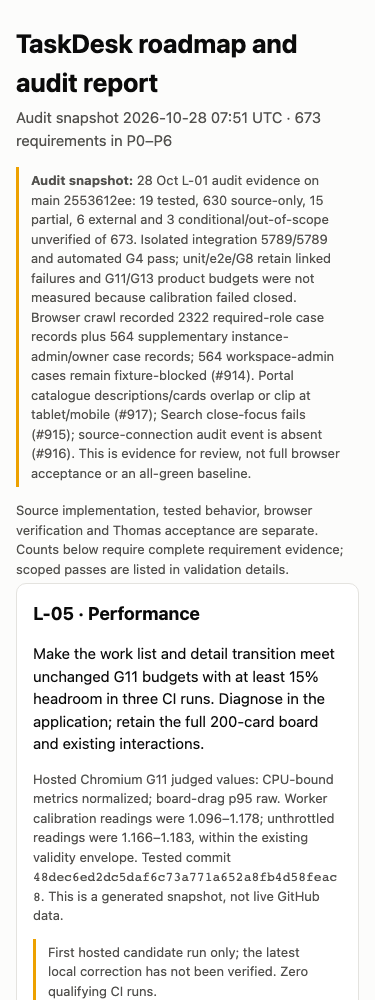
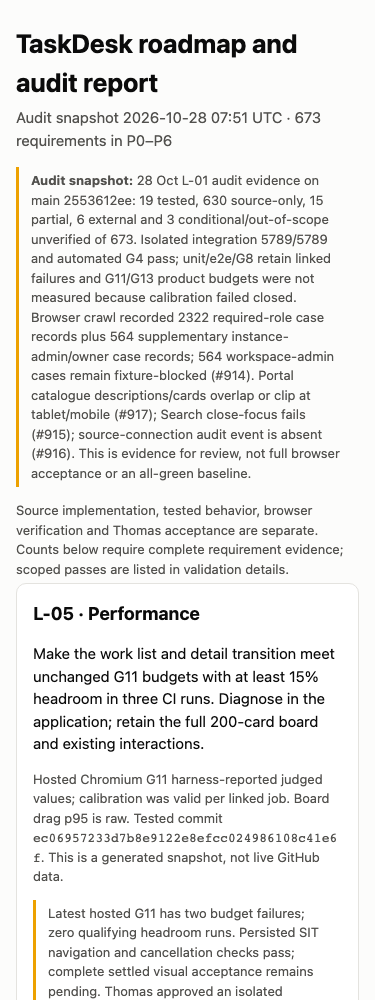
docs(report): refresh hosted performance and audit progress

Changed region(s): [[0.088, 0.775, 0.9093, 1.0]]

diff --git a/docs/report/report.html b/docs/report/report.html
@@ -30,10 +30,10 @@ details{margin-top:8px}summary{cursor:pointer;font-weight:600}
 <p class="sub">Audit snapshot 2026-10-28 07:51 UTC · 673 requirements in P0–P6</p>
 <p class="note"><strong>Audit snapshot:</strong> 28 Oct L-01 audit evidence on main 2553612ee: 19 tested, 630 source-only, 15 partial, 6 external and 3 conditional/out-of-scope unverified of 673. Isolated integration 5789/5789 and automated G4 pass; unit/e2e/G8 retain linked failures and G11/G13 product budgets were not measured because calibration failed closed. Browser crawl recorded 2322 required-role case records plus 564 supplementary instance-admin/owner case records; 564 workspace-admin cases remain fixture-blocked (#914). Portal catalogue descriptions/cards overlap or clip at tablet/mobile (#917); Search close-focus fails (#915); source-connection audit event is absent (#916). This is evidence for review, not full browser acceptance or an all-green baseline.</p>
 <p class="meta">Source implementation, tested behavior, browser verification and Thomas acceptance are separate. Counts below require complete requirement evidence; scoped passes are listed in validation details.</p>
-<section class="card"><h2>L-05 · Performance</h2><p>Make the work list and detail transition meet unchanged G11 budgets with at least 15% headroom in three CI runs. Diagnose in the application; retain the full 200-card board and existing interactions.</p><p class="meta">Hosted Chromium G11 judged values: CPU-bound metrics normalized; board-drag p95 raw. Worker calibration readings were 1.096–1.178; unthrottled readings were 1.166–1.183, within the existing validity envelope. Tested commit <code>48dec6ed2dc5daf6c73a771a652a8fb4d58feac8</code>. This is a generated snapshot, not live GitHub data.</p><p class="note">First hosted candidate run only; the latest local correction has not been verified. Zero qualifying CI runs.</p><p><a href="https://github.com/ThomasHeinThura/ticketing/pull/919">Draft PR 919</a> · <a href="https://github.com/ThomasHeinThura/ticketing/actions/runs/40714505114/job/122908390393">Hosted CI run and job</a></p>
-<div class="table-wrap" tabindex="0" role="region" aria-label="First hosted candidate metrics table"><table><caption>First hosted candidate metrics</caption><thead><tr><th scope="col">Metric</th><th scope="col">Measured</th><th scope="col">Budget</th><th scope="col">15% headroom</th><th scope="col">Result</th></tr></thead><tbody><tr><th scope="row">Work-list LCP</th><td>2769.5 ms</td><td>&lt; 2500 ms</td><td>≤ 2125 ms</td><td class="metric-fail">Fail</td></tr><tr><th scope="row">List to detail</th><td>518 ms</td><td>&lt; 300 ms</td><td>≤ 255 ms</td><td class="metric-fail">Fail</td></tr><tr><th scope="row">Board drag p95</th><td>16.8 ms</td><td>&lt; 20 ms</td><td>≤ 17 ms</td><td class="">Pass</td></tr><tr><th scope="row">Board render</th><td>412.7 ms</td><td>&lt; 500 ms</td><td>≤ 425 ms</td><td class="">Pass</td></tr><tr><th scope="row">Assignment click</th><td>165.2 ms</td><td>&lt; 200 ms</td><td>≤ 170 ms</td><td class="">Pass</td></tr></tbody></table></div><p class="meta">Hosted E2E: 164 passed, 1 failed (create-control regression). Correction is pending verification. Candidate has no persisted SIT acceptance.</p><p class="meta">Latest local correction: six targeted E2E tests pass, covering create shell while panel or form is delayed, cancellation on navigation or unmount, retry and parent preload. Hosted verification remains pending.</p></section>
+<section class="card"><h2>L-05 · Performance</h2><p>Make the work list and detail transition meet unchanged G11 budgets with at least 15% headroom in three CI runs. Diagnose in the application; retain the full 200-card board and existing interactions.</p><p class="meta">Hosted Chromium G11 harness-reported judged values; calibration was valid per linked job. Board drag p95 is raw. Tested commit <code>ec06957233d7b8e9122e8efcc024986108c41e6f</code>. This is a generated snapshot, not live GitHub data.</p><p class="note">Latest hosted G11 has two budget failures; zero qualifying headroom runs. Persisted SIT navigation and cancellation checks pass; complete settled visual acceptance remains pending. Thomas approved an isolated workspace-admin fixture; it is created and role-verified, with browser coverage in progress.</p><p><a href="https://github.com/ThomasHeinThura/ticketing/pull/919">Draft PR 919</a> · <a href="https://github.com/ThomasHeinThura/ticketing/actions/runs/40731412562/job/122968440838">Hosted CI run and job</a></p>
+<div class="table-wrap" tabindex="0" role="region" aria-label="Latest hosted candidate metrics table"><table><caption>Latest hosted candidate metrics</caption><thead><tr><th scope="col">Metric</th><th scope="col">Measured</th><th scope="col">Budget</th><th scope="col">15% headroom</th><th scope="col">Budget result</th><th scope="col">Headroom result</th></tr></thead><tbody><tr><th scope="row">Work-list LCP</th><td>2853.6 ms</td><td>&lt; 2500 ms</td><td>≤ 2125 ms</td><td class="metric-fail">Fail</td><td class="metric-fail">Fail</td></tr><tr><th scope="row">List to detail</th><td>1103.5 ms</td><td>&lt; 300 ms</td><td>≤ 255 ms</td><td class="metric-fail">Fail</td><td class="metric-fail">Fail</td></tr><tr><th scope="row">Board drag p95</th><td>16.8 ms</td><td>&lt; 20 ms</td><td>≤ 17 ms</td><td class="">Pass</td><td class="">Pass</td></tr><tr><th scope="row">Board render</th><td>467.1 ms</td><td>&lt; 500 ms</td><td>≤ 425 ms</td><td class="">Pass</td><td class="metric-fail">Fail</td></tr><tr><th scope="row">Assignment click</th><td>184.6 ms</td><td>&lt; 200 ms</td><td>≤ 170 ms</td><td class="">Pass</td><td class="metric-fail">Fail</td></tr><tr><th scope="row">State click</th><td>190.0 ms</td><td>&lt; 200 ms</td><td>≤ 170 ms</td><td class="">Pass</td><td class="metric-fail">Fail</td></tr></tbody></table></div><p class="meta">Hosted CI: 25 other checks green including full integration, G8, G4 and E2E; G11 alone failed (20 passed, 2 failed). Detail value 1103.5 ms is the second judged set; the first set measured 1063.9 ms.</p><p class="meta">Verified ec0695723 checks (before the new notification-batching experiment): 3326 web tests, 7 mocked browser journeys, 9 typecheck tasks, clean tracked-source lint (0 errors, 265 existing warnings, 15 infos), 401 contrast pairs and bundle limits pass. Persisted local SIT ec0695723: 96 agent cases (owner/lead/member/viewer × list/table/board/detail × three widths × two themes) and 6 customer portal cases pass after retaining and diagnosing initial harness failures. Pointer and keyboard drag cancellation preserve state/rank/version with zero record writes. Thomas approved an isolated QA workspace/project/identity for #914; creation and workspace-admin-only role verification passed, and browser coverage is in progress. These are scoped functional checks; initial captures include progressive placeholders, so whole-matrix settled visual acceptance is pending.</p><details><summary>Previous hosted candidate</summary><p class="meta">Tested commit <code>48dec6ed2dc5daf6c73a771a652a8fb4d58feac8</code> · <a href="https://github.com/ThomasHeinThura/ticketing/actions/runs/40714505114/job/122908390393">Previous hosted job</a>. Hosted Chromium G11 judged values: CPU-bound metrics normalized; board-drag p95 raw. Worker calibration readings were 1.096–1.178; unthrottled readings were 1.166–1.183, within the existing validity envelope.</p><ul><li>Work-list LCP: 2769.5 ms; budget &lt; 2500 ms; headroom target ≤ 2125 ms; budget Fail.</li><li>List to detail: 518 ms; budget &lt; 300 ms; headroom target ≤ 255 ms; budget Fail.</li><li>Board drag p95: 16.8 ms; budget &lt; 20 ms; headroom target ≤ 17 ms; budget Pass.</li><li>Board render: 412.7 ms; budget &lt; 500 ms; headroom target ≤ 425 ms; budget Pass.</li><li>Assignment click: 165.2 ms; budget &lt; 200 ms; headroom target ≤ 170 ms; budget Pass.</li></ul><p class="meta">Hosted E2E 164 passed, 1 failed (create-control regression).</p></details></section>
 <section class="card"><h2>Roadmap</h2>
-<p class="meta">Updated 2026-10-28 16:31 UTC · retained backlog order</p>
+<p class="meta">Updated 2026-10-28 17:54 UTC · retained backlog order</p>
 <div class="table-wrap" tabindex="0" role="region" aria-label="Ordered backlog table"><table><caption>Ordered backlog</caption><thead><tr><th scope="col">Item</th><th scope="col">Status</th><th scope="col">Done when</th></tr></thead><tbody><tr><th scope="row"><a href="https://github.com/ThomasHeinThura/ticketing/pull/918">L-01</a> · Baseline full audit</th><td>Evidence delivered; PR unmerged</td><td>Review, required CI and Thomas approval; blocked evidence remains explicit.</td></tr><tr><th scope="row"><a href="https://github.com/ThomasHeinThura/ticketing/pull/919">L-05</a> · Work-list performance headroom</th><td>In progress; draft PR</td><td>G11 green with at least 15% headroom for three CI runs.</td></tr><tr><th scope="row">L-02 · Test-suite reliability</th><td>Queued</td><td>Three consecutive green CI runs without retries; typical PR run ≤ 15 minutes.</td></tr><tr><th scope="row">L-03a · Release regression suite</th><td>Queued</td><td>Persisted journeys cover every area and role on local SIT.</td></tr><tr><th scope="row">L-03 · Settings split by scope</th><td>Queued</td><td>Account, project, workspace and God Mode entry points; redirects and role/browser checks.</td></tr><tr><th scope="row">L-04 · Pages editor</th><td>Queued</td><td>Keyboard-first block editor with persistence, conflict handling and browser verification.</td></tr><tr><th scope="row">L-06 · Open review lows</th><td>Queued</td><td>Fix each low or record an accepted decision.</td></tr><tr><th scope="row">L-07 · Requirement gaps</th><td>Queued</td><td>Close each confirmed gap with evidence or obtain an explicit descope.</td></tr><tr><th scope="row">L-08 · Browser coverage</th><td>Queued</td><td>Record outstanding role, screen, import, export and timing evidence.</td></tr><tr><th scope="row">L-09 · Security and data hardening</th><td>Queued</td><td>Fix issues with tests or close them with recorded decisions.</td></tr><tr><th scope="row">L-10 · Customer readiness</th><td>Queued</td><td>Install, configure, upgrade and restore the signed image with matching documentation.</td></tr><tr><th scope="row">L-11 · CI tooling issues</th><td>Queued</td><td>Fix or close obsolete issues with evidence.</td></tr><tr><th scope="row">T-1 · Thomas-only external evidence</th><td>External</td><td>Thomas records Entra validation, penetration test and other external decisions.</td></tr></tbody></table></div></section>
 <h2>Historical audit and phase evidence</h2>
 <section class="card"><h2>Overall</h2><svg viewBox="0 0 640 26" role="img" aria-label="ALL requirement states, Implemented + current test evidence: 19, Browser verified: 0, Implemented; current verification pending: 630, Partial / open: 15, Missing: 0, Externally blocked: 6, Unverified / conditional scope: 3" class="bar"><rect x="1" y="0" width="16.068350668647845" height="26" rx="3" class="c1"><title>Implemented + current test evidence: 19</title></rect><rect x="19.068350668647845" y="0" width="597.108469539376" height="26" rx="3" class="c2"><title>Implemented; current verification pending: 630</title></rect><rect x="618.1768202080239" y="0" width="12.264487369985142" height="26" rx="3" class="c3"><title>Partial / open: 15</title></rect><rect x="632.441307578009" y="0" width="3.7057949479940557" height="26" rx="3" class="c5"><title>Externally blocked: 6</title></rect><rect x="638.147102526003" y="0" width="1" height="26" rx="3" class="c6"><title>Unverified / conditional scope: 3</title></rect></svg><div class="legend"><span class="lg"><i class="c1"></i>Implemented + current test evidence: 19</span><span class="lg"><i class="c7"></i>Browser verified: 0</span><span class="lg"><i class="c2"></i>Implemented; current verification pending: 630</span><span class="lg"><i class="c3"></i>Partial / open: 15</span><span class="lg"><i class="c4"></i>Missing: 0</span><span class="lg"><i class="c5"></i>Externally blocked: 6</span><span class="lg"><i class="c6"></i>Unverified / conditional scope: 3</span></div></section>
